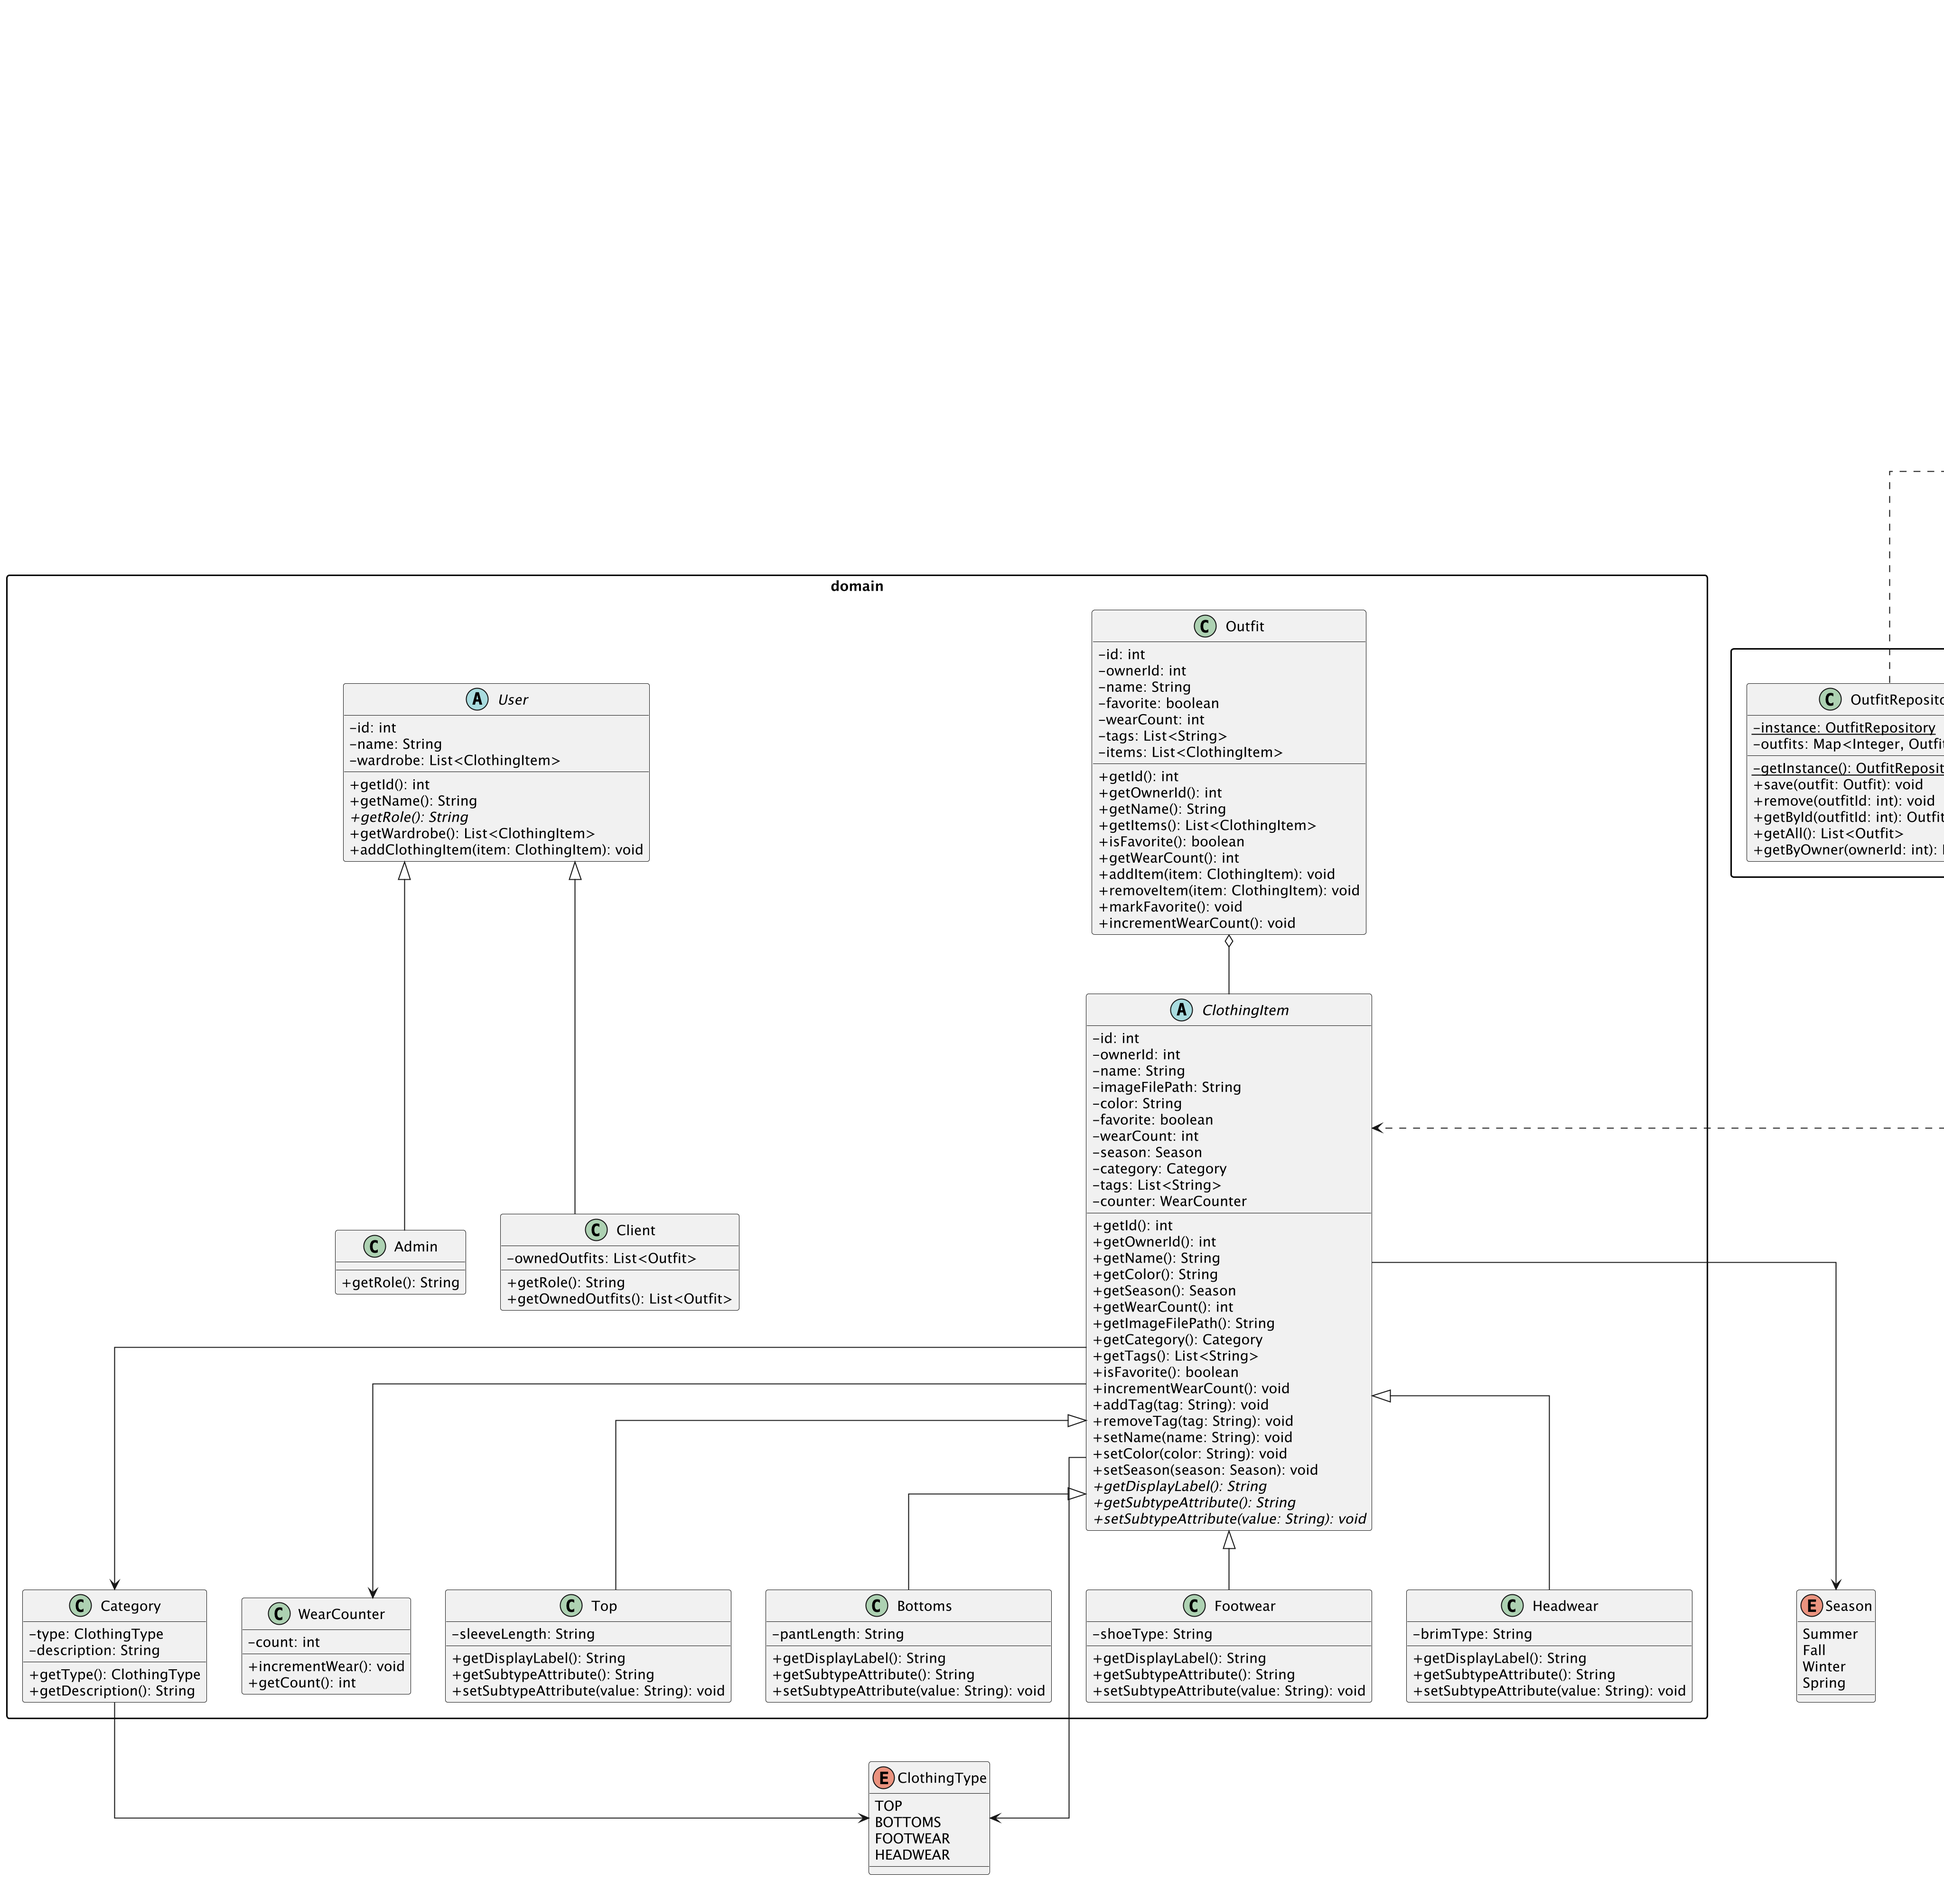
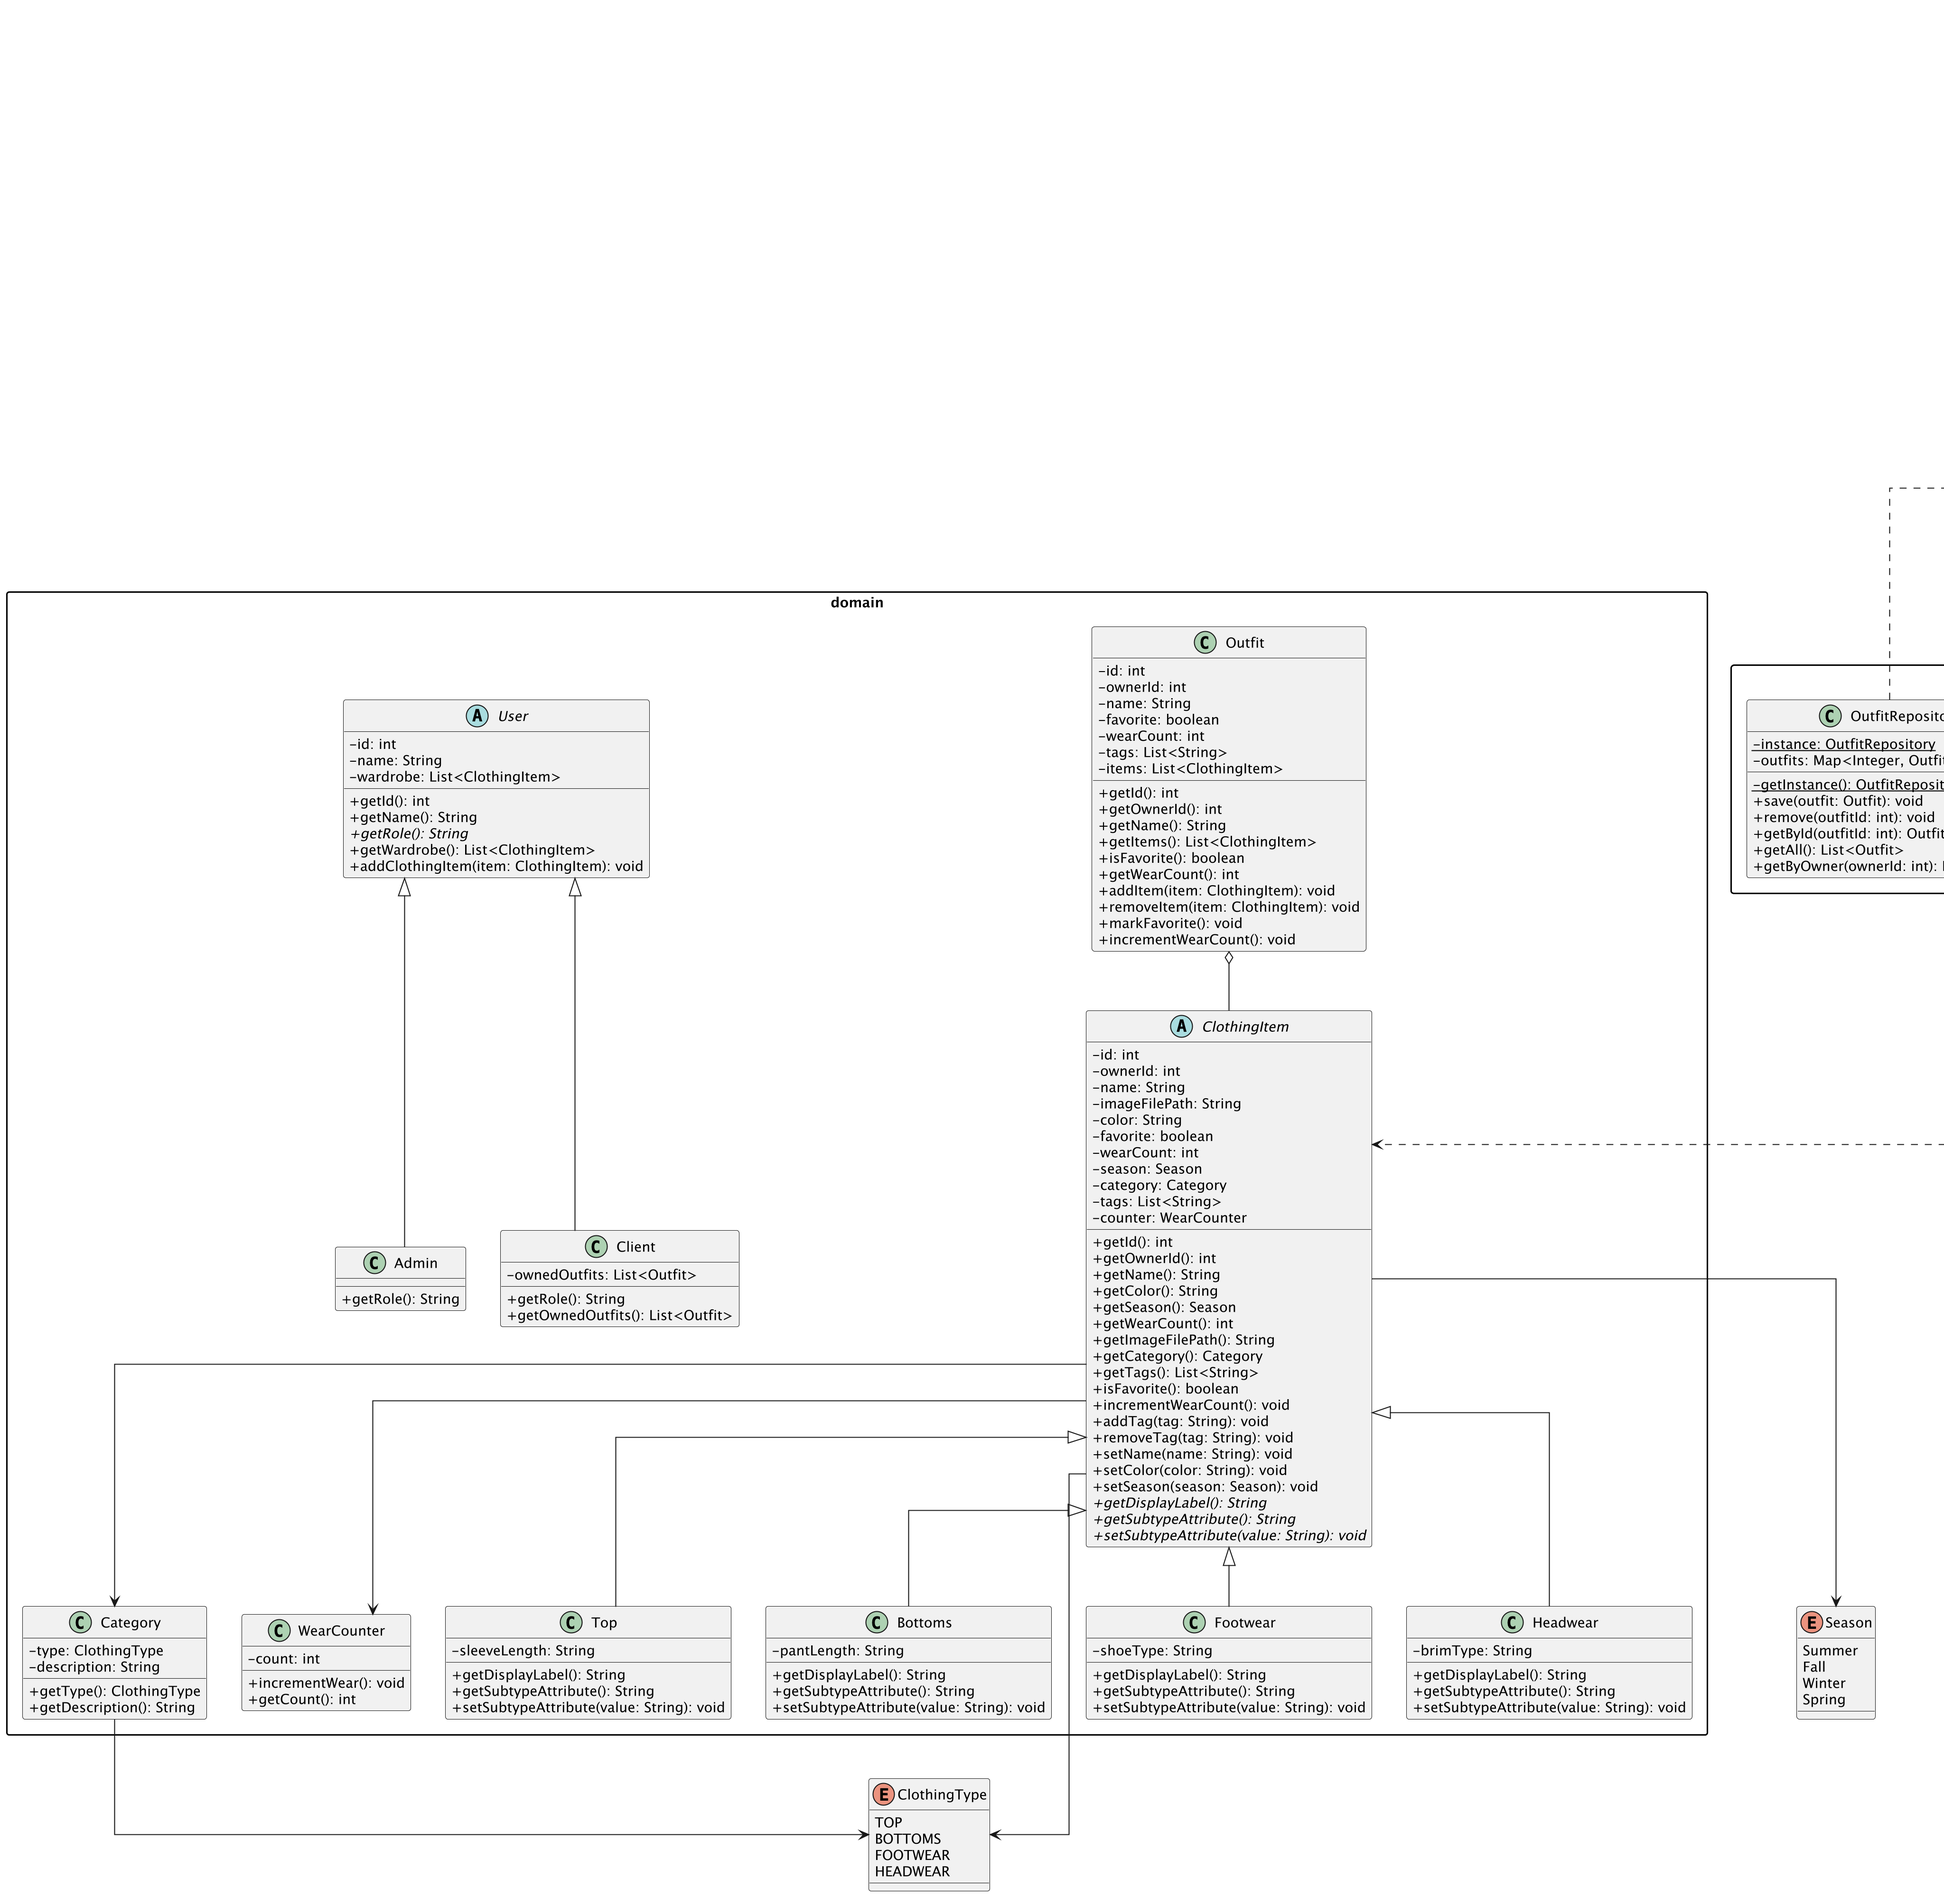
feat: Add admin delete-client, outfit deletion,relative image paths, updated UML

diff --git a/src/java/Program.java b/src/java/Program.java
@@ -386,7 +386,7 @@ public class Program {
 
             ClothingItem item = ClothingFactory.create(
                     clothingType, nextId++, currentUser.getId(), name,
-                    processed.getAbsolutePath(), color, season, subtypeAttr);
+                    processed.getPath(), color, season, subtypeAttr);
             repo.save(item);
             fileService.markImported(file.getName());
             imageViewer.close();
